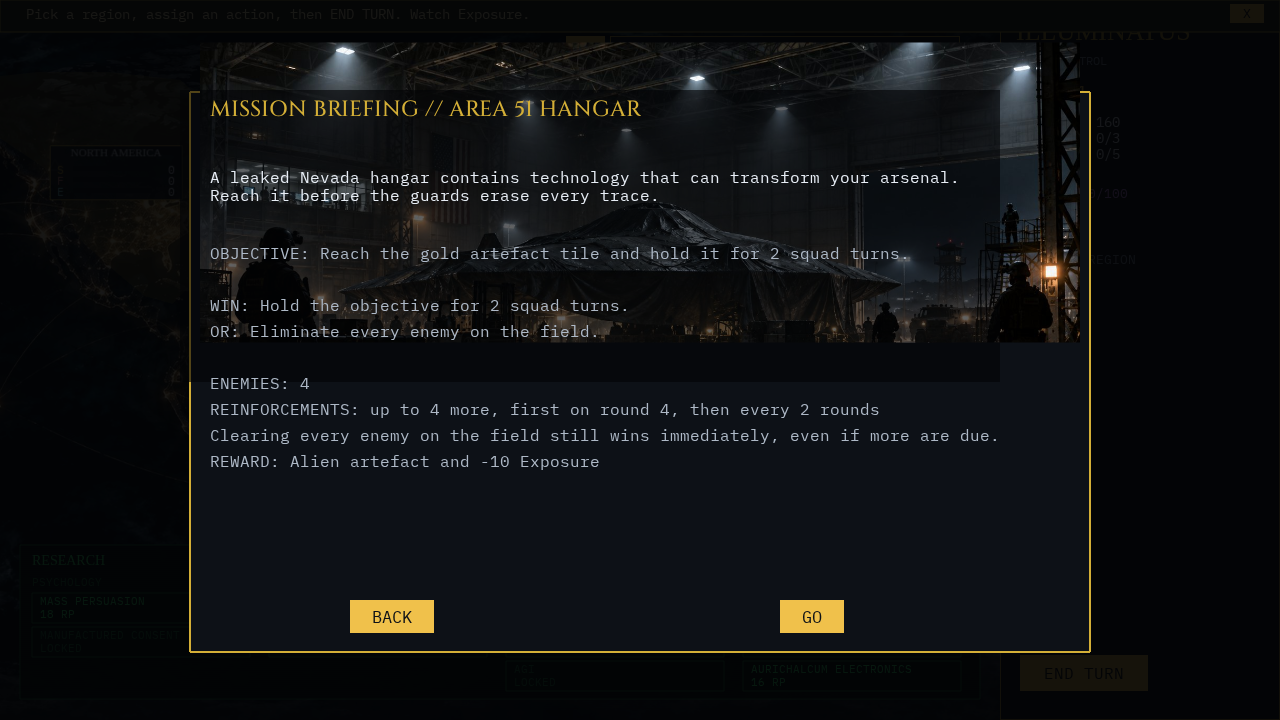
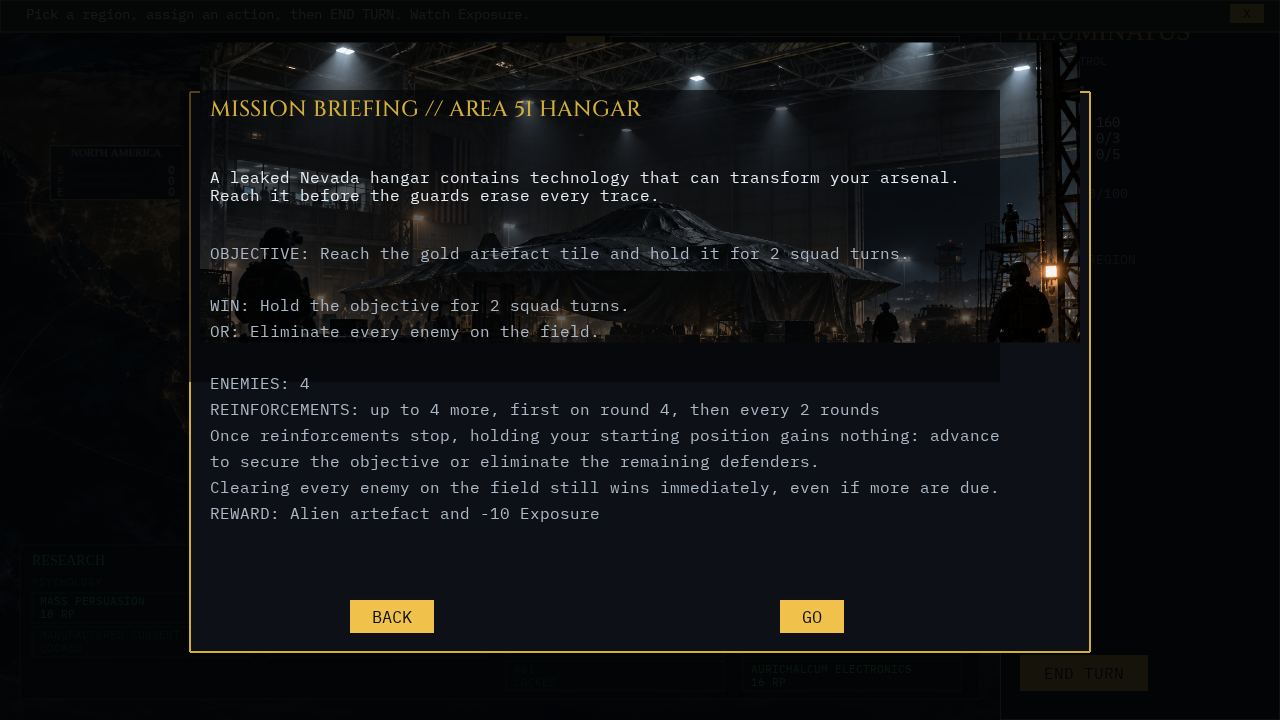
briefing(6c): add anti-camping note to both mission briefings
- reinforcementsNote field in MissionCopy, rendered after the reinforcement line
- wordWrap so the note wraps within the panel, clear of scrim and buttons
- re-shot both briefing screens through the real LAUNCH flow

Changed region(s): [[0.1562, 0.5806, 0.7812, 0.7333], [0.625, 0.6722, 0.7812, 0.7028]]

diff --git a/src/game/strategy/text.ts b/src/game/strategy/text.ts
@@ -106,6 +106,8 @@ export interface MissionCopy {
   why: string;
   objective: string;
   reward: string;
+  /** Shown after the reinforcement line; warns that camping never pays. */
+  reinforcementsNote?: string;
 }
 
 export const MISSION_TEXT: Readonly<Record<string, MissionCopy>> = {
@@ -113,10 +115,12 @@ export const MISSION_TEXT: Readonly<Record<string, MissionCopy>> = {
     why: 'A leaked Nevada hangar contains technology that can transform your arsenal. Reach it before the guards erase every trace.',
     objective: 'Reach the gold artefact tile and hold it for 2 squad turns.',
     reward: 'Alien artefact and -10 Exposure',
+    reinforcementsNote: 'Once reinforcements stop, holding your starting position gains nothing: advance to secure the objective or eliminate the remaining defenders.',
   },
   atlantis: {
     why: 'The ruins preserve the Aurichalcum formula required by your final research programme. Guardians still defend the flooded archive.',
     objective: 'Reach the gold formula tile and hold it for 2 squad turns.',
     reward: 'Aurichalcum',
+    reinforcementsNote: 'Once reinforcements stop, holding your starting position gains nothing: advance to secure the objective or eliminate the remaining defenders.',
   },
 };

diff --git a/src/render/WorldScene.ts b/src/render/WorldScene.ts
@@ -323,10 +323,11 @@ export class WorldScene extends Phaser.Scene {
       '',
       `ENEMIES: ${alienCount}`,
       reinf ? `REINFORCEMENTS: up to ${reinf.max} more, first on round ${reinf.fromRound}, then every ${reinf.every} rounds` : '',
+      reinf && copy.reinforcementsNote ? copy.reinforcementsNote : '',
       reinf ? 'Clearing every enemy on the field still wins immediately, even if more are due.' : '',
       `REWARD: ${copy.reward}`,
     ];
-    add(this.add.text(210, 244, lines, textStyle(16, HEX.textDim, { lineSpacing: 8 })));
+    add(this.add.text(210, 244, lines, textStyle(16, HEX.textDim, { lineSpacing: 8, wordWrap: { width: 800 } })));
     add(goldButton(this, 350, 600, 'BACK', () => objects.forEach((object) => object.destroy()), {
       size: 17,
       padding: { x: 12, y: 7 },
